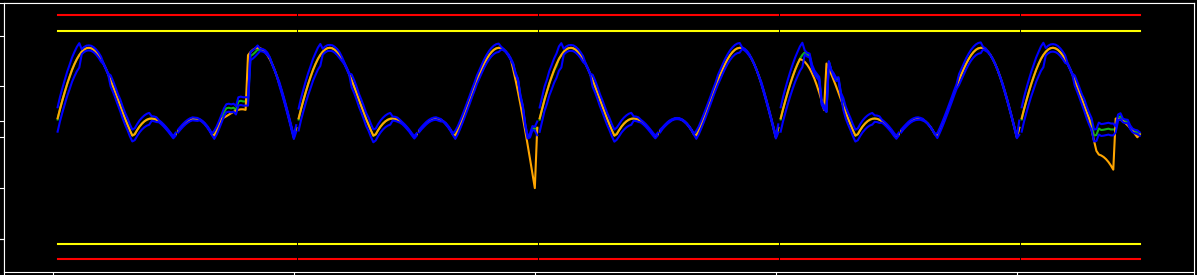
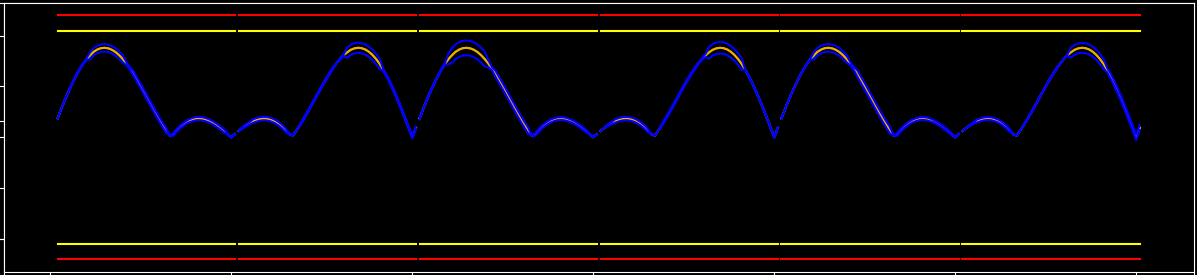
optimized modes plots

Changed region(s): [[0.0309, 0.1455, 0.9582, 0.6691], [0.9273, 0.5818, 0.9582, 0.6109], [0.8964, 0.5527, 0.9273, 0.5818]]

diff --git a/experiments/popupplots.py b/experiments/popupplots.py
@@ -1,0 +1,82 @@
+from matplotlib.backends.backend_pdf import PdfPages
+import matplotlib.pyplot as plt
+from matplotlib import style
+import  numpy as np
+import matplotlib.animation as animation
+style.use("dark_background")
+
+try:
+    plt.ion()
+    fig = plt.figure()
+    clr = fig.add_subplot(1,1,1)
+    fig1 = fig.add_subplot(2, 1, 1)
+    # fig2 = fig.add_subplot(2, 3, 2)
+    # fig3 = fig.add_subplot(2, 3, 3)
+    fig4 = fig.add_subplot(2, 1, 2)
+    font_dict = {'family': 'serif',
+                 'color': 'green',
+                 'size': 15}
+
+    def graph(timestamps, realValues, predictedValues, b1, b2, anomaly=False, lm1=2.1, lm2=-2.1, redll=-2.4, redlh=2.4):
+        cnter = 1
+        lm1s = []
+        lm2s = []
+        lreds = []
+        hreds = []
+        for i in range(timestamps.__len__()):
+            lm1s.append(lm1)
+        for i in range(timestamps.__len__()):
+            lm2s.append(lm2)
+        for i in range(timestamps.__len__()):
+            lreds.append(redll)
+        for i in range(timestamps.__len__()):
+            hreds.append(redlh)
+        fig1.plot(timestamps, lm1s, 'yellow')
+        fig1.plot(timestamps, lm2s, 'yellow')
+        fig1.plot(timestamps, lreds, 'red')
+        fig1.plot(timestamps, hreds, 'red')
+        fig1.plot(timestamps, predictedValues, 'xkcd:green', label="Preds")
+        fig1.plot(timestamps, realValues, 'orange', label="Reals")
+        fig1.plot(timestamps, b1, 'blue', label="Bound1")
+        fig1.plot(timestamps, b2, 'blue', label="Bound2")
+
+
+        fig1.set_title('Temperature', font_dict)
+        # plt.legend()
+        # fig1.get_legend()
+        if anomaly:
+            fig1.set_title('Anomaly', font_dict)
+            plt.annotate.('',(timestamps[len(timestamps)-1],realValues[len(realValues)-1]),
+                 xytext=(0.8, 0.9), textcoords='axes fraction',
+                 arrowprops = dict(color='darkred'))
+            # plt.draw()
+        else:
+            pass
+        plt.pause(0.01)
+        pic = fig1.get_window_extent().transformed(fig.dpi_scale_trans.inverted())
+        fig.savefig('ax2_figure.png', bbox_inches=pic)
+        cnter +=1
+    def orbitangleplot(timestamp, orbitangle):
+        fig2.plot(timestamp, orbitangle)
+        fig2.set_title('Orbit Angle', font_dict)
+        plt.pause(0.01)
+    def accelxplot(timestamps, accelx):
+        fig3.plot(timestamps, accelx, 'red')
+        fig3.set_title('Acceleration', font_dict)
+        plt.pause(0.01)
+
+    def modes(timestamps, modes):
+        fig4.plot(timestamps, modes, 'orange')
+        fig4.set_title('Modes', font_dict)
+        plt.pause(0.01)
+
+    # plt.legend()
+    # fig1.get_legend()
+    plt.show()
+
+
+except Exception as e:
+    print(e)
+
+
+

diff --git a/experiments/liveMonitor.py b/experiments/liveMonitor.py
@@ -4,9 +4,10 @@ import numpy
 import matplotlib.pyplot as plt
 import collectorv3 as col
 import xP_plots
+import popupplots
 
 
-PLOT_CONSTANTLY = True
+PLOT_CONSTANTLY = False
 
 class LiveMonitor(object):
     # The class "constructor" - It's actually an initializer 
@@ -70,11 +71,15 @@ class LiveMonitor(object):
         # print("reals", reals)
         upper_bounds = [preds[i] + ranges[i] for i in range(num_points)]
         lower_bounds = [preds[i] - ranges[i] for i in range(num_points)]
-        xP_plots.graph(times, reals, preds, upper_bounds, lower_bounds, anomaly)
-        # xP_plots.orbitangleplot(times, angles)
-        # xP_plots.accelxplot(times, accelx)
-        xP_plots.modes(times, modes)
-        # print("times", times)
+        if PLOT_CONSTANTLY:
+            xP_plots.graph(times, reals, preds, upper_bounds, lower_bounds, anomaly)
+            # xP_plots.orbitangleplot(times, angles)
+            # xP_plots.accelxplot(times, accelx)
+            xP_plots.modes(times, modes)
+            # print("times", times)
+        else:
+            popupplots.graph(times, reals, preds, upper_bounds, lower_bounds, anomaly)
+            # xP_plots.modes(times, modes)
 
         #TODO plot(times, reals, preds, lower_bounds, upper_bounds)
 

diff --git a/experiments/trainv3.py b/experiments/trainv3.py
@@ -75,7 +75,7 @@ try:
             pointRanges = col.outputsToDict(ranger.calcRanges(window))
             monitor.handleNext(point, pointPredictions, pointRanges)
 except Exception as e:
-    print(e)
+    raise e
 
 
 
